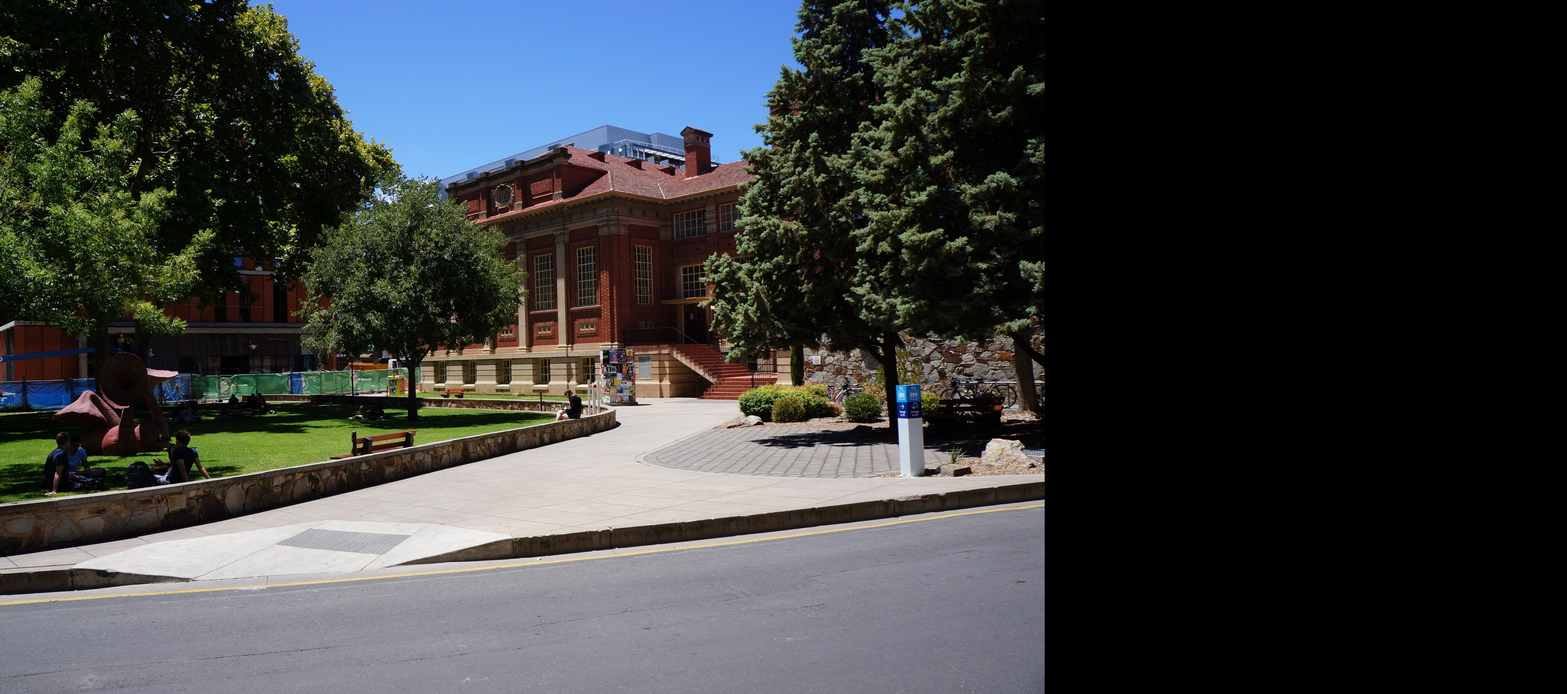
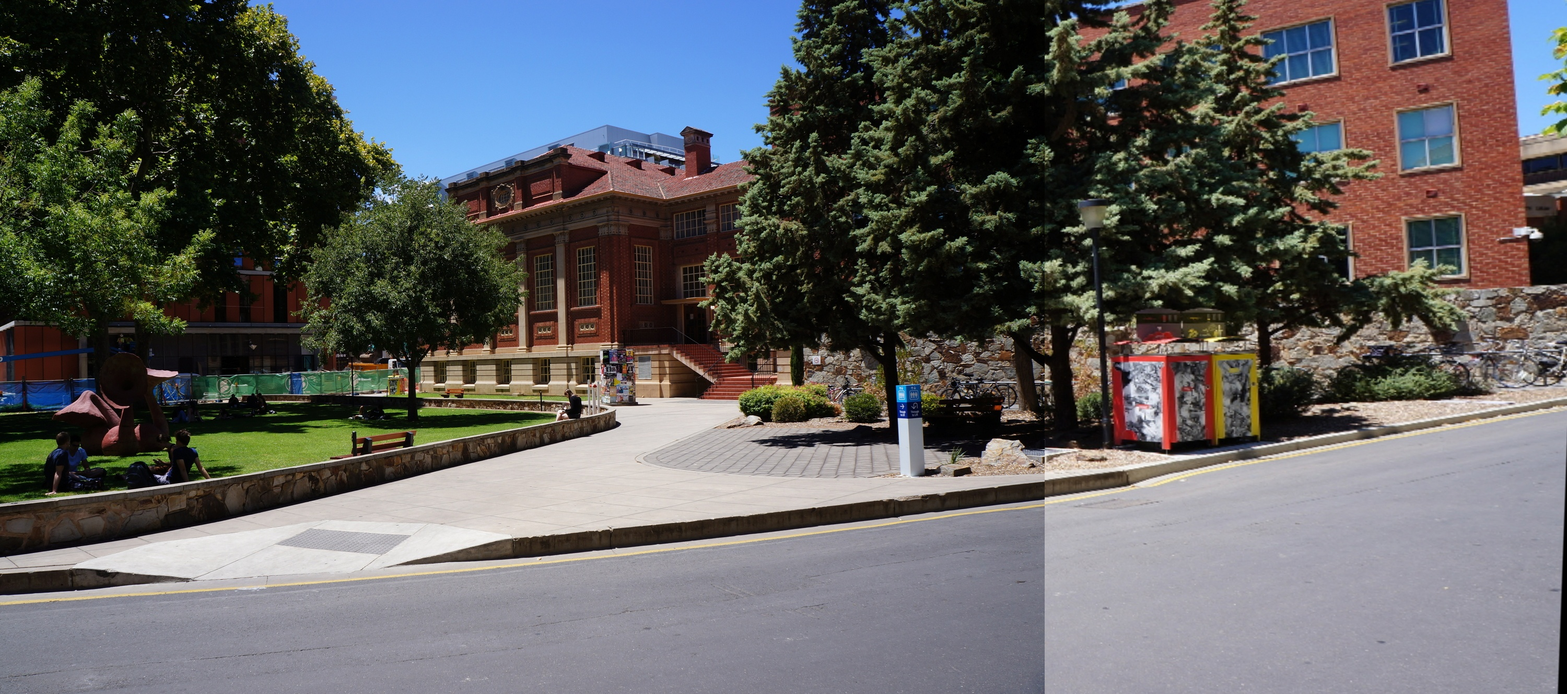
Overall progress

Changed region(s): [[0.651, 0.0, 1.0, 1.0]]

diff --git a/Tarea 3/panoram.py b/Tarea 3/panoram.py
@@ -1,22 +1,22 @@
 
 import cv2
 import numpy as np
-
+import random as rng
 
 def panoramic(img1, img2):
     sift = cv2.xfeatures2d.SIFT_create(nOctaveLayers=6, sigma=1.6)
 
-    # make calculations on image1
+    # Calculos en la imagen 1
     gray1 = cv2.cvtColor(img1, cv2.COLOR_BGR2GRAY)
     kp1 = sift.detect(gray1)
     kp1, des1 = sift.compute(gray1, kp1)
 
-    # make calculations on image2
+    # Calculos en la imagen 2
     gray2 = cv2.cvtColor(img2, cv2.COLOR_BGR2GRAY)
     kp2 = sift.detect(gray2)
     kp2, des2 = sift.compute(gray2, kp2)
 
-    # match the multiple local descriptors
+    # Encontrar concordancias entre los descriptores locales de las dos imagenes
     matcher = cv2.BFMatcher()
     matches = matcher.knnMatch(des1, des2, k=2)
 
@@ -26,20 +26,92 @@ def panoramic(img1, img2):
         if m.distance < 0.8 * n.distance:
             good.append(m)
 
-    ##Calculando homografía para afinar correspondencias
+    # Calculando homografía con las correspondencias
     if len(good) > 4:
         src_pts = np.float32([kp1[m.queryIdx].pt for m in good]).reshape(-1, 2)
         dst_pts = np.float32([kp2[m.trainIdx].pt for m in good]).reshape(-1, 2)
+        h = find_homography_ransac(src_pts, dst_pts)
 
-        M, mask = cv2.findHomography(src_pts, dst_pts, cv2.RANSAC, 2.0)
-        matchesMask = mask.ravel().tolist()
+    # Aplicar la transformación correspondiente
+    dst = wrap_images(img1, img2, h)
+
+    # Escribir imagen en disco
+    dst[0:img2.shape[0], 0:img2.shape[1]] = img2
+    cv2.imwrite("panoramica.png", dst)
+
+
+def find_homography_ransac(src, dst):
+    TRIES = 10  # intentos
+    INLIER_POR_THRESHOLD = 0.3  # Porcentaje de puntos Inliers para considerar la homografía válida
+    DISTANCE_THRESHOLD = 3  # Distancia máxima para que un punto sea inlier
+    POINTS = 4              # Se eligen 4 puntos para armar una matriz de 9x9 con 9 incognitas.
+
+    best_inliers = 0
+    best_homo = None
+
+    for i in range(TRIES):
+        picks = [rng.randint(0, len(src) - 1) for i in range(POINTS)]
+        # get points and solve the system
+        src_picks = []
+        dst_picks = []
+
+        for j in range(POINTS):
+            src_picks += [src[picks[i]]]  # (x, y)
+            dst_picks += [dst[picks[i]]]  # (x, y)
+
+        h = solve_homography(src_picks, dst_picks)
+        # Resolver el sistema y probar qué tan buena es la "solucion"
+        current_inliers = 0
+        for j in range(src):
+            point = np.append(src[j], 1)  # (x, y, 1)
+            h_point = np.matmul(h, point)[0:2]  # multiplicación de matrices, (x, y)
+            if distance(h_point, dst[j]) < DISTANCE_THRESHOLD:
+                current_inliers += 1
+
+        if current_inliers > len(src) * INLIER_POR_THRESHOLD:
+            if current_inliers > best_inliers:
+                best_inliers = current_inliers
+                best_homo = h
+
+    if best_homo:
+        return best_homo
     else:
-        matchesMask = None
-
-    # Tengo el match con sift
-
-    img3 = 1 # Imagen irl
+        raise(TimeoutError("RANSAC couldnt find a fitting homography"))
 
 
-    #
+def solve_homography(src_points, dst_points):
+    # Se resuelve para dst = h * src
+    length = len(src_points)
+    a = np.zeros((2 * length + 1, 9))
+    for i in range(length):
+        sx = src_points[i][0]
+        sy = src_points[i][1]
+        dx = dst_points[i][0]
+        dy = dst_points[i][1]
+        a[2*i] = np.array([-sx, -sy, -1, 0, 0, 0, dx*sx, dx*sy, dx])
+        a[2*i + 1] = np.array([0, 0, 0, -sx, -sy, -1, dy*sx, dy*sy, dy])
+    a[-1] = np.array([0, 0, 0, 0, 0, 0, 0, 0, 1])
+    b = np.array([0, 0, 0, 0, 0, 0, 0, 0, 1])
+    h = np.linalg.solve(a, b)
+    return np.reshape(h, (3, 3))
 
+
+def distance(p1, p2):
+    return np.sqrt(np.square(p1[0]-p2[0]) + np.square(p1[1]-p2[1]))
+
+
+def wrap_images(img1, img2, h):
+    # TODO
+    # Aplicar h pixel por pixel en img2 e interpolar el color entre img1 y img2.
+    dst = np.zeros((img1.shape[1] + img2.shape[1], img2.shape[0]))
+    dst[0:img1.shape[0], 0:img1.shape[1]] = img1
+    img3 = img1  # Extender los tamaños
+    for i in img2.shape[0]:
+        for j in img2.shape[1]:
+            a = 1
+
+    return cv2.warpPerspective(img1, h, (img1.shape[1] + img2.shape[1], img2.shape[0]))
+
+
+if __name__ == "__main__":
+    print("Hello")

diff --git a/Basic Tools/local_descriptors/ejemplo_1.py b/Basic Tools/local_descriptors/ejemplo_1.py
@@ -12,36 +12,37 @@ import matplotlib.pyplot as plt
 
 
 if __name__ == '__main__':
-    img = cv2.imread('../images/stitching/caso_3/3a.jpg')
-    gray = cv2.cvtColor(img, cv2.COLOR_BGR2GRAY)
-    sift = cv2.xfeatures2d.SIFT_create(nOctaveLayers=6, sigma=1.6)
-    kp = sift.detect(gray)
-    kp, des = sift.compute(gray, kp)
+    img_ = cv2.imread('../images/stitching/caso_3/3b.jpg')
+    img1 = cv2.cvtColor(img_, cv2.COLOR_BGR2GRAY)
+    sift = cv2.xfeatures2d.SIFT_create()
+    kp = sift.detect(img1)
+    kp, des = sift.compute(img1, kp)
 
-    img_2 = cv2.imread('../images/stitching/caso_3/3b.jpg')
-    gray_2 = cv2.cvtColor(img_2, cv2.COLOR_BGR2GRAY)
-    kp_2 = sift.detect(gray_2)
-    kp_2, des_2 = sift.compute(gray_2, kp_2)
+    img = cv2.imread('../images/stitching/caso_3/3a.jpg')
+    img2 = cv2.cvtColor(img, cv2.COLOR_BGR2GRAY)
+    kp_2 = sift.detect(img2)
+    kp_2, des_2 = sift.compute(img2, kp_2)
 
     matcher = cv2.BFMatcher()
     matches = matcher.knnMatch(des, des_2, k=2)
     # Apply ratio test
     good = []
     for m, n in matches:
-        if m.distance < 0.8 * n.distance:
+        if m.distance < 0.5 * n.distance:
             good.append(m)
 
     ##Calculando homografía para afinar correspondencias
     if len(good) > 4:
         src_pts = np.float32([kp[m.queryIdx].pt for m in good]).reshape(-1, 2)
         dst_pts = np.float32([kp_2[m.trainIdx].pt for m in good]).reshape(-1, 2)
-
+        src_xs = src_pts[:, 0]
         M, mask = cv2.findHomography(src_pts, dst_pts, cv2.RANSAC, 2.0)
         matchesMask = mask.ravel().tolist()
+        print(M)
     else:
         matchesMask = None
 
-    dst = cv2.warpPerspective(img_2, M, (img.shape[1] + img_2.shape[1], img.shape[0]))
+    dst = cv2.warpPerspective(img_, M, (img_.shape[1] + img.shape[1], img.shape[0]))
     plt.subplot(122)
     plt.imshow(dst)
     plt.title("WarpedImage")
